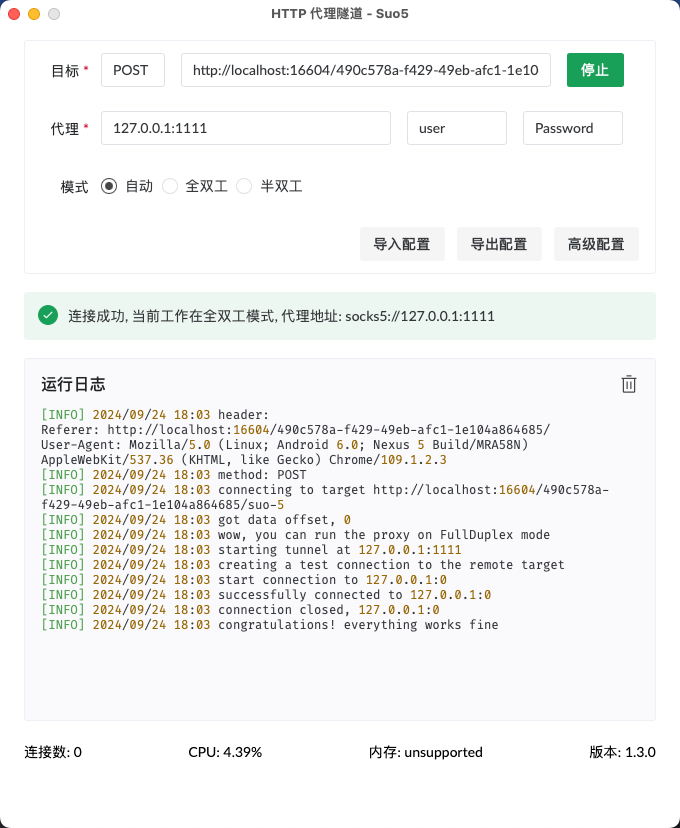
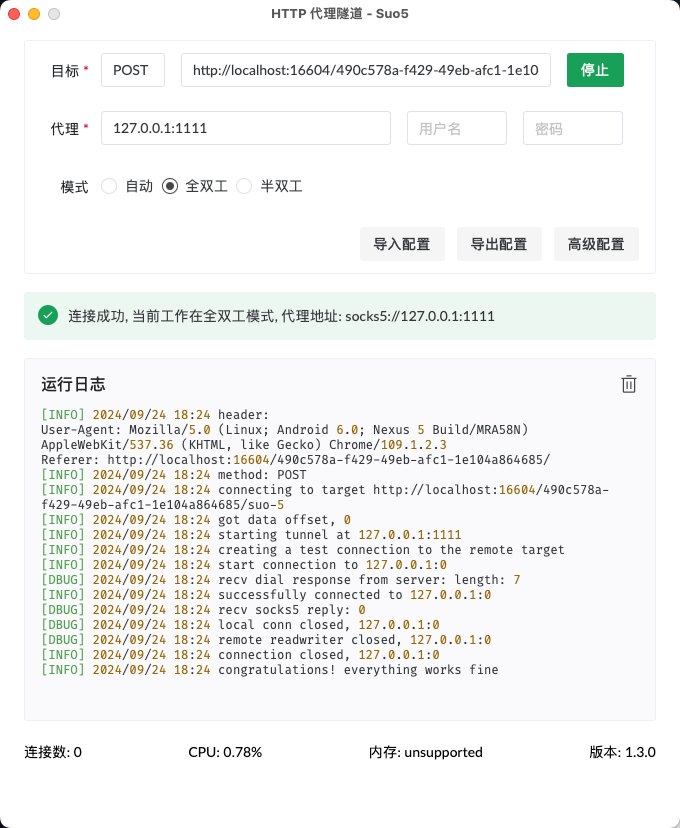
update

diff --git a/hacker-suo5/README.md b/hacker-suo5/README.md
@@ -17,6 +17,6 @@ then open [suo5 gui](https://github.com/zema1/suo5/releases), operating as scree
 and testing by curl using that sock5 proxy.
 
 ```bash
-# user and password setting in suo5-gui
-curl -x 'socks5://user:password@127.0.0.1:1111' https://www.bing.com
+# socks5 with user and password seems not working, just leave blank
+curl -x 'socks5://127.0.0.1:1111' https://www.bing.com
 ```
